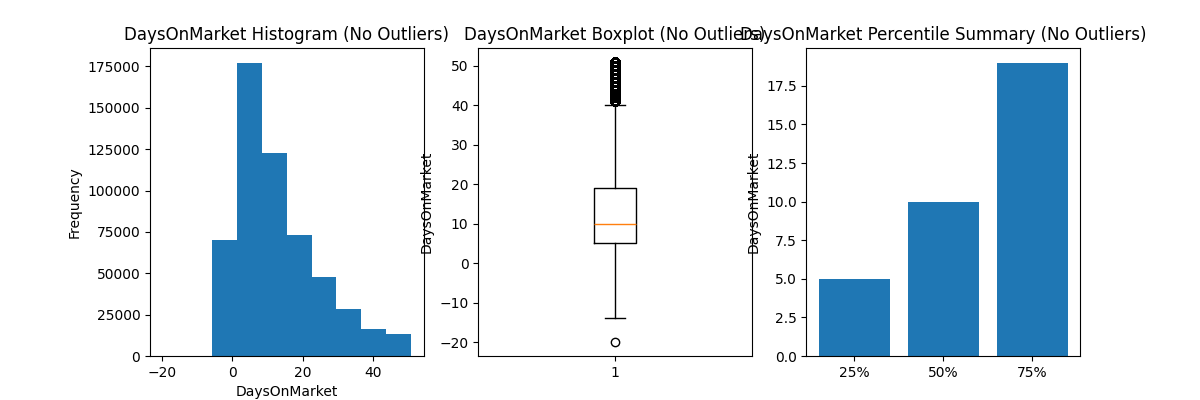
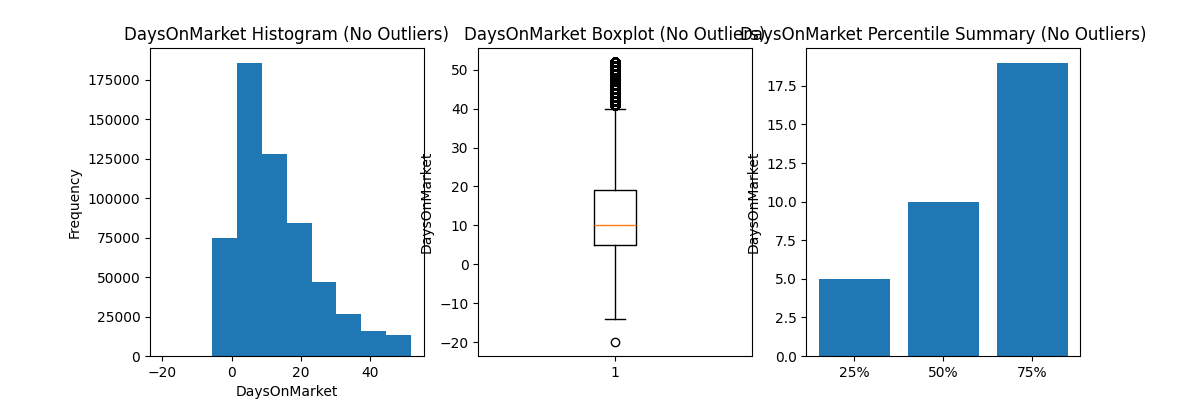
include july data + reran scripts
- updated md summaries
- filtered non-cali properties that showed on tableau (not all, but most)

diff --git a/python/wk4_5_deliverable.py b/python/wk4_5_deliverable.py
@@ -123,7 +123,10 @@ def clean_cols(df, df_name):
 
     # flag_over_50.sort()
     print('\n', len(flag_over_50), 'columns with over 50% nulls (excl. core fields & schools):')
-    flag_over_50.remove('BuyerOfficeName')
+    if 'BuyerOfficeName' in flag_over_50:
+        flag_over_50.remove('BuyerOfficeName')
+    if 'PurchaseContractDate' in flag_over_50:    # accounts for listing dataset
+        flag_over_50.remove('PurchaseContractDate')
     print(flag_over_50)
 
     # drop cols w >50% nulls (excl. core fields and schools)
@@ -323,11 +326,13 @@ def clean_sold_rows(df):
     )
 
     # remove non-CA rows
+    print('TRANSFORMATION 1: Remove non-CA rows via null cities')
     print('\nShape before removing:', df.shape)
     df = df[~((df['oos_coords_flag'] == True) & (df['City'].isnull()))]
     print('Shape after removing:', df.shape)
 
     # remove out of state coords except cities marked 'Other'
+    print('TRANSFORMATION 2: Remove non-CA rows via city label (Outside Area)')
     print('\nShape before cleaning:', df.shape)
     df = df[
         ~df['City'].isin([
@@ -361,18 +366,16 @@ def clean_sold_rows(df):
     print('Shape after conversion:', df.shape)
     df[df['oos_coords_flag'] == True][['Latitude', 'Longitude', 'City', 'PostalCode']]
 
-    # remove out of state rows + row with flagstaff since that's in AZ
+    # remove null out of state rows + row with flagstaff since that's in AZ
     oos_mask = (
         df['oos_coords_flag'] &
         (df['City'].isna() |
         (df['City'] == 'Flagstaff'))
     )
+    print('TRANSFORMATION 4: Remove non-CA rows + Flagstaff property')
     print('\nShape before removing:', df.shape)
     df = df[~oos_mask]
     print('Shape after removing:', df.shape)
-
-    # fix palmdale zipcode
-    df.loc[319267, 'PostalCode'] = 93551 # used to be 83551
 
     # normalize zipcodes to remove hyphens (e.g 63119-2447)
     df['PostalCode'] = (
@@ -380,6 +383,20 @@ def clean_sold_rows(df):
         .astype(str)
         .str[:5]
     )
+
+    # fix palmdale zipcode
+    df.loc[319267, 'PostalCode'] = 93551 # used to be 83551
+    # fix oakland zipcode
+    df.loc[429446, 'PostalCode'] = 90802 # used to be 80802
+    # fix long beach zipcode
+    df.loc[371546, 'PostalCode'] = 94603 # used to be 49603
+
+    # drop oos zipcodes
+    noncali_zips_mask = df['PostalCode'].str.startswith('9') == False
+    print('\nTRANSFORMATION 7: Remove non-CA rows via postal code')
+    print('Shape before removing:', df.shape)
+    df = df.loc[~noncali_zips_mask]
+    print('Shape after removing:', df.shape)
 
     # drop flagged columns that're done
     print('\nShape before removing flagged columns:', df.shape)

diff --git a/python/wk1_deliverable.py b/python/wk1_deliverable.py
@@ -9,7 +9,7 @@ sold_shapes = []
 listing = []
 listing_shapes = []
 
-END_MONTH = 6
+END_MONTH = 7
 
 # get files from each month from years 2024-2026
 for year in [2024, 2025, 2026]:

diff --git a/md/wk4_5.md b/md/wk4_5.md
@@ -1,5 +1,5 @@
 # ``SOLD`` TRANSFORMATION SUMMARY
-> Dataset shape: (448253, 84)
+> Dataset shape: (465312, 84)
 
 The following date fields were converted to datetime format:
 - CloseDate
@@ -24,7 +24,7 @@ The following 15 columns were identified to contain __over 90% nulls__ and were 
 - TaxYear
 - WaterfrontYN
 
-> Updated dataset shape: (448253, 69)
+> Updated dataset shape: (465312, 69)
 
 The following 9 columns were considered and removed for having __over 50% nulls__:
 - AssociationFeeFrequency
@@ -37,7 +37,7 @@ The following 9 columns were considered and removed for having __over 50% nulls_
 - OriginatingSystemSubName
 - SubdivisionName
 
-> Updated dataset shape: (448253, 60)
+> Updated dataset shape: (465312, 60)
 
 The remaining 60 columns were manually inspected and the following 11 were removed as they were considered to be unnecessary for analysis:
 - ListAgentFirstName
@@ -52,7 +52,7 @@ The remaining 60 columns were manually inspected and the following 11 were remov
 - BuyerAgentLastName
 - MlsStatus
 
-> Updated dataset shape: (448253, 49)
+> Updated dataset shape: (465312, 49)
 
 Rows were also cleaned by flagging for invalid values. Below is the count for each flag, how it was handled, and how it affected the overall dataset shape.
 
@@ -63,17 +63,17 @@ Rows were also cleaned by flagging for invalid values. Below is the count for ea
     - count: 1
     - handled by: removal
     - notes: 0-value
-    > updated dataset shape: (448252, 59)
+    > updated dataset shape: (465311, 59)
 - neg_livingarea_flag
     - count: 165
     - handled by: removal
     - notes: all 0-values
-    > updated dataset shape: (448087, 59)
+    > updated dataset shape: (465142, 59)
 - neg_dom_flag
     - count: 51
     - handled by: converted to null
     - notes: attempts to fix negative value didn't work, maybe because CloseDate was inputted before ListingContractDate, so they were set to null so we can still use other information given by the row
-    > updated dataset shape: (448087, 59) || UNCHANGED
+    > updated dataset shape: (465142, 59) || UNCHANGED
 
 There were no rows with negative bedrooms or bathrooms, so flag columns were not created for them.
 
@@ -83,15 +83,15 @@ There were no rows with negative bedrooms or bathrooms, so flag columns were not
 - listing_after_close_flag
     - count: 70
     - handled by: converted to null
-    > updated dataset shape: (448087, 59) || UNCHANGED
+    > updated dataset shape: (465142, 59) || UNCHANGED
 - purchase_after_close_flag
     - count: 239
     - handled by: converted to null
-    > updated dataset shape: (448087, 59) || UNCHANGED
+    > updated dataset shape: (465142, 59) || UNCHANGED
 - negative_timeline_flag
     - count: 14940
     - handled by: converted to null
-    > updated dataset shape: (448087, 59) || UNCHANGED
+    > updated dataset shape: (465142, 59) || UNCHANGED
 
 ### GEOGRAPHIC CHECKS
 <hr>
@@ -99,36 +99,38 @@ There were no rows with negative bedrooms or bathrooms, so flag columns were not
 - missing_coords_flag
     - count: 4385
     - handled by: 
-    > updated dataset shape: (448087, 59) || UNCHANGED
+    > updated dataset shape: (465142, 59) || UNCHANGED
 - sentinel_coords_flag
     - count: 37
     - handled by: removal
-    > updated dataset shape: (448050, 59)
+    > updated dataset shape: (465104, 59)
 - pos_lon_flag
     - count: 31
     - handled by: converted to null
-    > updated dataset shape: (448050, 59) || UNCHANGED
+    > updated dataset shape: (465104, 59) || UNCHANGED
 - oos_coords_flag
     - count: 4448
     - handled by: removal
     - transformation 1: null cities were mapped according to zipcode
-    > updated dataset shape: (448045, 59) || UNCHANGED
+    > updated dataset shape: (465104, 59) || UNCHANGED
     - transformation 2: out of state coordinates removed
-    > updated dataset shape: (448033, 59)
+    > updated dataset shape: (465098, 59)
     - transformation 3: 'Other' cities were renamed according to zipcode
-    - transformation 4: remove more out of state rows
-    > updated dataset shape: (448026, 59)
-    - transformation 5: manually fix palmdale zipcode
+    - transformation 4: remove more out of state rows via city label
+    > updated dataset shape: (465086, 59)
+    - transformation 5: manually fix palmdale, oakland, long beach zipcodes
     - transformation 6: normalize zipcodes to remove hyphens
+    - transformation 7: remove out of state rows via zipcode
+    > updated dataset shape: (465079, 59)
 
 In the end, all 10 flagged columns were dropped which leaves us with:
-## final dataset shape: (448026, 49)
-> recall starting dataset shape (448253, 84)
+## final dataset shape: (465039, 49)
+> recall starting dataset shape (465312, 84)
 
 
 # ``LISTINGS`` TRANSFORMATION SUMMARY
 
-> STARTING dataset shape: (607724, 86)
+> STARTING dataset shape: (631999, 86)
 
 The following date fields were converted to datetime format:
 - CloseDate
@@ -151,7 +153,7 @@ The following __13__ columns were identified to contain __over 90% nulls__ and w
 - TaxAnnualAmount
 - TaxYear
 
-> Updated dataset shape: (607724, 73)
+> Updated dataset shape: (631999, 73)
 
 The following __14__ columns were considered and removed for having __over 50% nulls__:
 - AssociationFeeFrequency
@@ -169,9 +171,9 @@ The following __14__ columns were considered and removed for having __over 50% n
 - CoListOfficeName
 - SubdivisionName
 
-> Updated dataset shape: (607724, 59)
+> Updated dataset shape: (631999, 59)
 
-The remaining 59 columns were manually inspected and the following __10 were removed__ as they were considered to be unnecessary for analysis:
+The remaining 59 columns were manually inspected and the following __17 were removed__ as they were considered to be unnecessary for analysis:
 - PropertyType.1
 - ListAgentFirstName.1
 - DaysOnMarket.1
@@ -190,7 +192,7 @@ The remaining 59 columns were manually inspected and the following __10 were rem
 - StateOrProvince
 - ListingKeyNumeric
 
-> Updated dataset shape: (607724, 49)
+> Updated dataset shape: (631999, 42)
 
 Rows were also cleaned by flagging for invalid values. Below is the count for each flag, how it was handled, and how it affected the overall dataset shape.
 
@@ -201,12 +203,12 @@ Rows were also cleaned by flagging for invalid values. Below is the count for ea
     - count: 393
     - handled by: removal
     - notes: all 0-values
-    > updated dataset shape: (607331, 49)
+    > updated dataset shape: (631596, 49)
 - neg_dom_flag
     - count: 32
     - handled by: converted to null
     - notes: attempts to fix negative value didn't work, maybe because PurchaseContractDate was inputted before ListingContractDate, so they were set to null so we can still use other information given by the row
-    > updated dataset shape: (607331, 49) || UNCHANGED
+    > updated dataset shape: (631596, 49) || UNCHANGED
 
 There were no rows with negative close price, bedrooms, or bathrooms, so flag columns were not created for them.
 
@@ -216,7 +218,7 @@ There were no rows with negative close price, bedrooms, or bathrooms, so flag co
 - negative_timeline_flag
     - count: 304
     - handled by: converted to null
-    > updated dataset shape: (607331, 49) || UNCHANGED
+    > updated dataset shape: (631596, 49) || UNCHANGED
 
 ### GEOGRAPHIC CHECKS
 <hr>
@@ -224,29 +226,29 @@ There were no rows with negative close price, bedrooms, or bathrooms, so flag co
 - missing_coords_flag
     - count: 80802
     - handled by: left them alone
-    > updated dataset shape: (607331, 49) || UNCHANGED
+    > updated dataset shape: (631596, 49) || UNCHANGED
 - sentinel_coords_flag
     - count: 75
     - handled by: removal
-    > updated dataset shape: (607256, 49)
+    > updated dataset shape: (631518, 49)
 - pos_lon_flag
     - count: 92
     - handled by: converted to null
-    > updated dataset shape: (607256, 49) || UNCHANGED
+    > updated dataset shape: (631518, 49) || UNCHANGED
 - oos_coords_flag
     - count: 81007
     - handled by: removal
     - transformation 1: removed non-CA coords via lat/lon
-    > updated dataset shape: (607051, 49)
+    > updated dataset shape: (631305, 49)
     - transformation 2: removed non-CA coords via postal code
-    > updated dataset shape: (607020, 49)
+    > updated dataset shape: (631274, 49)
     - transformation 3: mapped null cities according to zipcode
     - transformation 4: normalized zipcodes to remove hyphens
     - transformation 5: removed rows with 9999 postal codes
-    > updated dataset shape: (606998, 49)
+    > updated dataset shape: (631250, 49)
 
 In the end, all 7 flagged columns were dropped which leaves us with:
-## final dataset shape: (606998, 43)
-> recall starting dataset shape (607724, 86)
+## final dataset shape: (631250, 42)
+> recall starting dataset shape (631999, 86)
 
 Overall thoughts: While majority of the dataset has been cleaned, a small percentage of data were converted to nulls, especially when it comes to geographic data. When visualizing geographic data, these null values will be excluded and noted in future reports or presentations. The reason they are kept in the dataset is because those rows contain other useful information that can be visualized with no problem (e.g comparing list price to living area of a property).

diff --git a/md/wk7.md b/md/wk7.md
@@ -7,17 +7,17 @@ Dataset shape and median values before and after filtering outliers
 
 | Variable     | Dataset Size (Flagged) | Dataset Size (Removed) | Rows Removed | Median (Flagged) | Median (Removed) | Median Change |
 | ------------ | ---------------------: | ---------------------: | -----------: | ---------------: | ---------------: | ------------: |
-| ClosePrice   |                448,026 |                414,562 |       33,464 |        825,000.0 |        784,385.5 |     -40,614.5 |
-| LivingArea   |                448,026 |                428,198 |       19,828 |          1,646.0 |          1,608.0 |         -38.0 |
-| DaysOnMarket |                448,026 |                413,787 |       34,239 |             18.0 |             16.0 |          -2.0 |
+| ClosePrice   |                465,039 |                450,057 |       14,982 |        825,000.0 |        805,000.0 |     -20,000.0 |
+| LivingArea   |                465,039 |                459,659 |        5,380 |          1,646.0 |          1,636.0 |         -10.0 |
+| DaysOnMarket |                465,039 |                452,604 |       12,435 |             18.0 |             18.0 |           0.0 |
 
 Percentage-wise,
 
 | Variable     | % of Rows Removed | Median Change (%) |
 | ------------ | ----------------: | ----------------: |
-| ClosePrice   |             7.47% |            -4.92% |
-| LivingArea   |             4.43% |            -2.31% |
-| DaysOnMarket |             7.64% |           -11.11% |
+| ClosePrice   |             3.22% |            -2.42% |
+| LivingArea   |             1.16% |            -0.61% |
+| DaysOnMarket |             2.67% |             0.00% |
 
 
 ### LISTINGS dataset
@@ -25,14 +25,14 @@ Percentage-wise,
 
 | Variable     | Dataset Size (Flagged) | Dataset Size (Removed) | Rows Removed | Median (Flagged) | Median (Removed) | Median Change |
 | ------------ | ---------------------: | ---------------------: | -----------: | ---------------: | ---------------: | ------------: |
-| ClosePrice   |                606,998 |                162,961 |      444,037 |          860,000 |          820,000 |       -40,000 |
-| LivingArea   |                606,998 |                576,563 |       30,435 |            1,672 |            1,625 |           -47 |
-| DaysOnMarket |                606,998 |                549,113 |       57,885 |               11 |               10 |            -1 |
+| ClosePrice   |                631,250 |                171,374 |      459,876 |        860,000.0 |        845,000.0 |     -15,000.0 |
+| LivingArea   |                631,250 |                620,859 |       10,391 |          1,672.0 |          1,656.0 |         -16.0 |
+| DaysOnMarket |                631,250 |                604,626 |       26,624 |             11.0 |             11.0 |           0.0 |
 
 Percentage-wise,
 
 | Variable     | % of Rows Removed | Median Change (%) |
 | ------------ | ----------------: | ----------------: |
-| ClosePrice   |            73.15% |            -4.65% |
-| LivingArea   |             5.01% |            -2.81% |
-| DaysOnMarket |             9.54% |            -9.09% |
+| ClosePrice   |            72.85% |            -1.74% |
+| LivingArea   |             1.65% |            -0.96% |
+| DaysOnMarket |             4.22% |             0.00% |

diff --git a/md/wk6.md b/md/wk6.md
@@ -12,25 +12,25 @@ Summary statistics of the following fields (if available):
 
 | variable          | count  | unique   | top                       | freq      |
 | ------------------| -----: | -------: | ------------------------: | --------: |
-| PropertySubType   | 447164 | 20       | SingleFamilyResidence     | 335582    |
-| CountyOrParish    | 448026 | 62       | Los Angeles               | 111175    |
-| MLSAreaMajor      | 387638 | 1091     | 699 - Not Defined         | 46350     |
-| ListOfficeName    | 448026 | 19160    | Compass                   | 31728     |
-| BuyerOfficeName   | 440892 | 21877    | Compass                   | 29629     |
+| PropertySubType   | 464155 | 20       | SingleFamilyResidence     | 348347    |
+| CountyOrParish    | 465039 | 60       | Los Angeles               | 115475    |
+| MLSAreaMajor      | 402189 | 1091     | 699 - Not Defined         | 47718     |
+| ListOfficeName    | 465039 | 19410    | Compass                   | 32942     |
+| BuyerOfficeName   | 457713 | 22189    | Compass                   | 30834     |
 
-> Final dataset shape: (448026, 55)
+> Final dataset shape: (465039, 55)
 
 ### ``LISTINGS`` SEGMENT ANALYSIS
 <hr>
 
 | variable          | count  | unique   | top                       | freq      |
 | ------------------| -----: | -------: | ------------------------: | --------: |
-| PropertySubType   | 605633 | 21       | SingleFamilyResidence     | 442975    |
-| CountyOrParish    | 606998 | 63       | Los Angeles               | 154458    |
-| MLSAreaMajor      | 524494 | 1114     | 699 - Not Defined         | 67507     |
-| ListOfficeName    | 606998 | 21497    | Compass                   | 43289     |
-| BuyerOfficeName   | 187658 | 14932    | Compass                   | 15036     |
+| PropertySubType   | 629830 | 21       | SingleFamilyResidence     | 460366    |
+| CountyOrParish    | 631250 | 63       | Los Angeles               | 160877    |
+| MLSAreaMajor      | 545384 | 1116     | 699 - Not Defined         | 70282     |
+| ListOfficeName    | 631250 | 21763    | Compass                   | 45015     |
+| BuyerOfficeName   | 189227 | 14985    | Compass                   | 15216     |
 
-> Final dataset shape: (606998, 46)
+> Final dataset shape: (631250, 46)
 
 Note: School columns were dropped from both datasets
